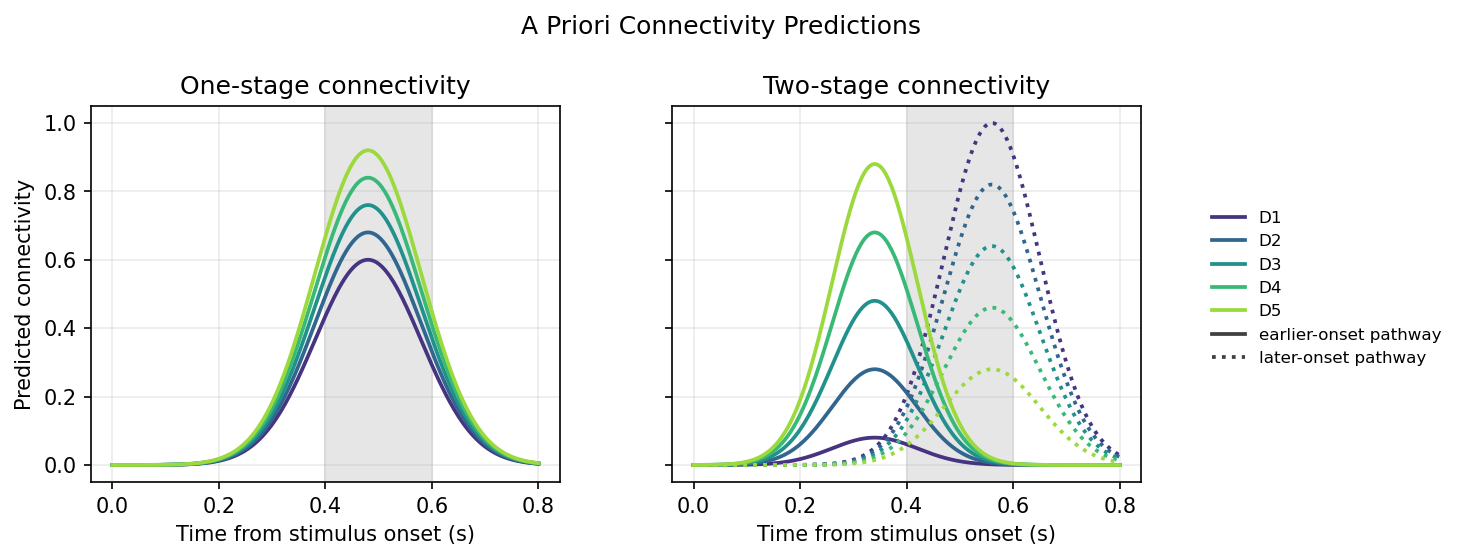
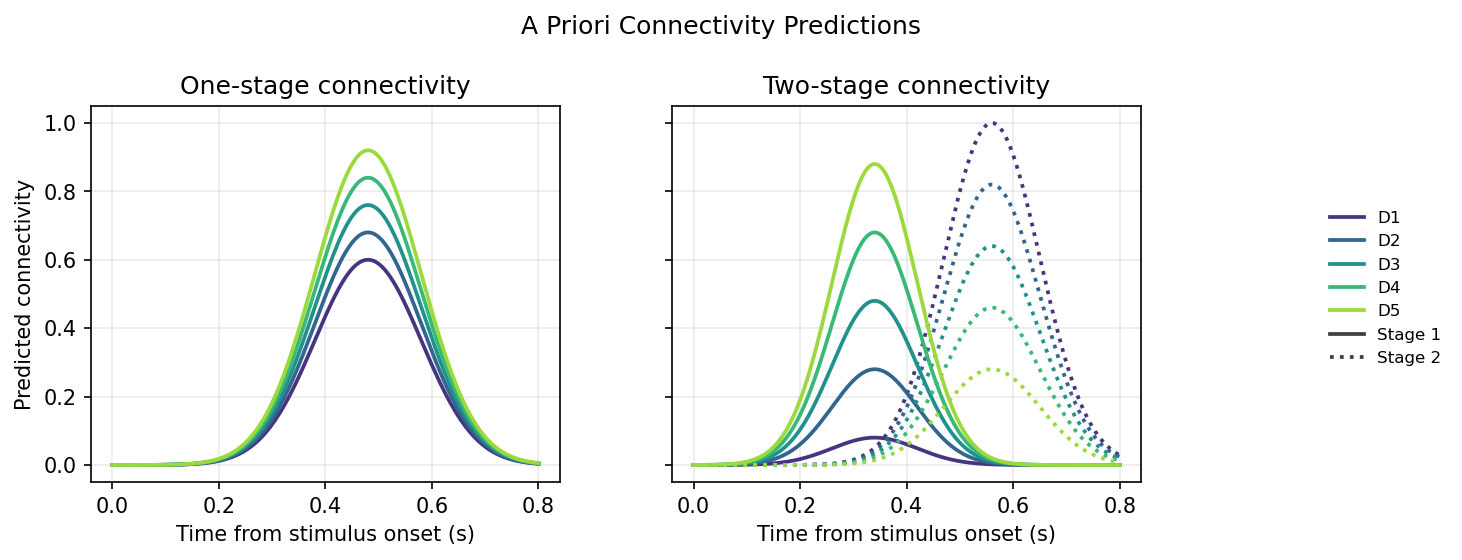
fig rev

Changed region(s): [[0.6156, 0.1821, 0.7079, 0.8804], [0.2155, 0.1821, 0.3078, 0.8804], [0.8311, 0.3643, 0.985, 0.6679]]

diff --git a/code/connect_prediction_figure.py b/code/connect_prediction_figure.py
@@ -40,7 +40,6 @@ def save_fig_connect_prediction(figures_dir=FIGURES_DIR):
     ax.set_title("One-stage connectivity")
     ax.set_xlabel("Time from stimulus onset (s)")
     ax.set_ylabel("Predicted connectivity")
-    ax.axvspan(0.40, 0.60, color="0.90", zorder=0)
     ax.grid(alpha=0.25)
 
     ax = axes[1]
@@ -53,7 +52,6 @@ def save_fig_connect_prediction(figures_dir=FIGURES_DIR):
         ax.plot(t, early_y, color=colors[idx], linewidth=1.8)
     ax.set_title("Two-stage connectivity")
     ax.set_xlabel("Time from stimulus onset (s)")
-    ax.axvspan(0.40, 0.60, color="0.90", zorder=0)
     ax.grid(alpha=0.25)
 
     handles = []
@@ -66,7 +64,7 @@ def save_fig_connect_prediction(figures_dir=FIGURES_DIR):
         plt.Line2D([0], [0], color="0.25", linewidth=1.8),
         plt.Line2D([0], [0], color="0.25", linewidth=1.8, linestyle=":"),
     ]
-    stage_labels = ["earlier-onset pathway", "later-onset pathway"]
+    stage_labels = ["Stage 1", "Stage 2"]
     for handle in stage_handles:
         handles.append(handle)
     for label in stage_labels:
